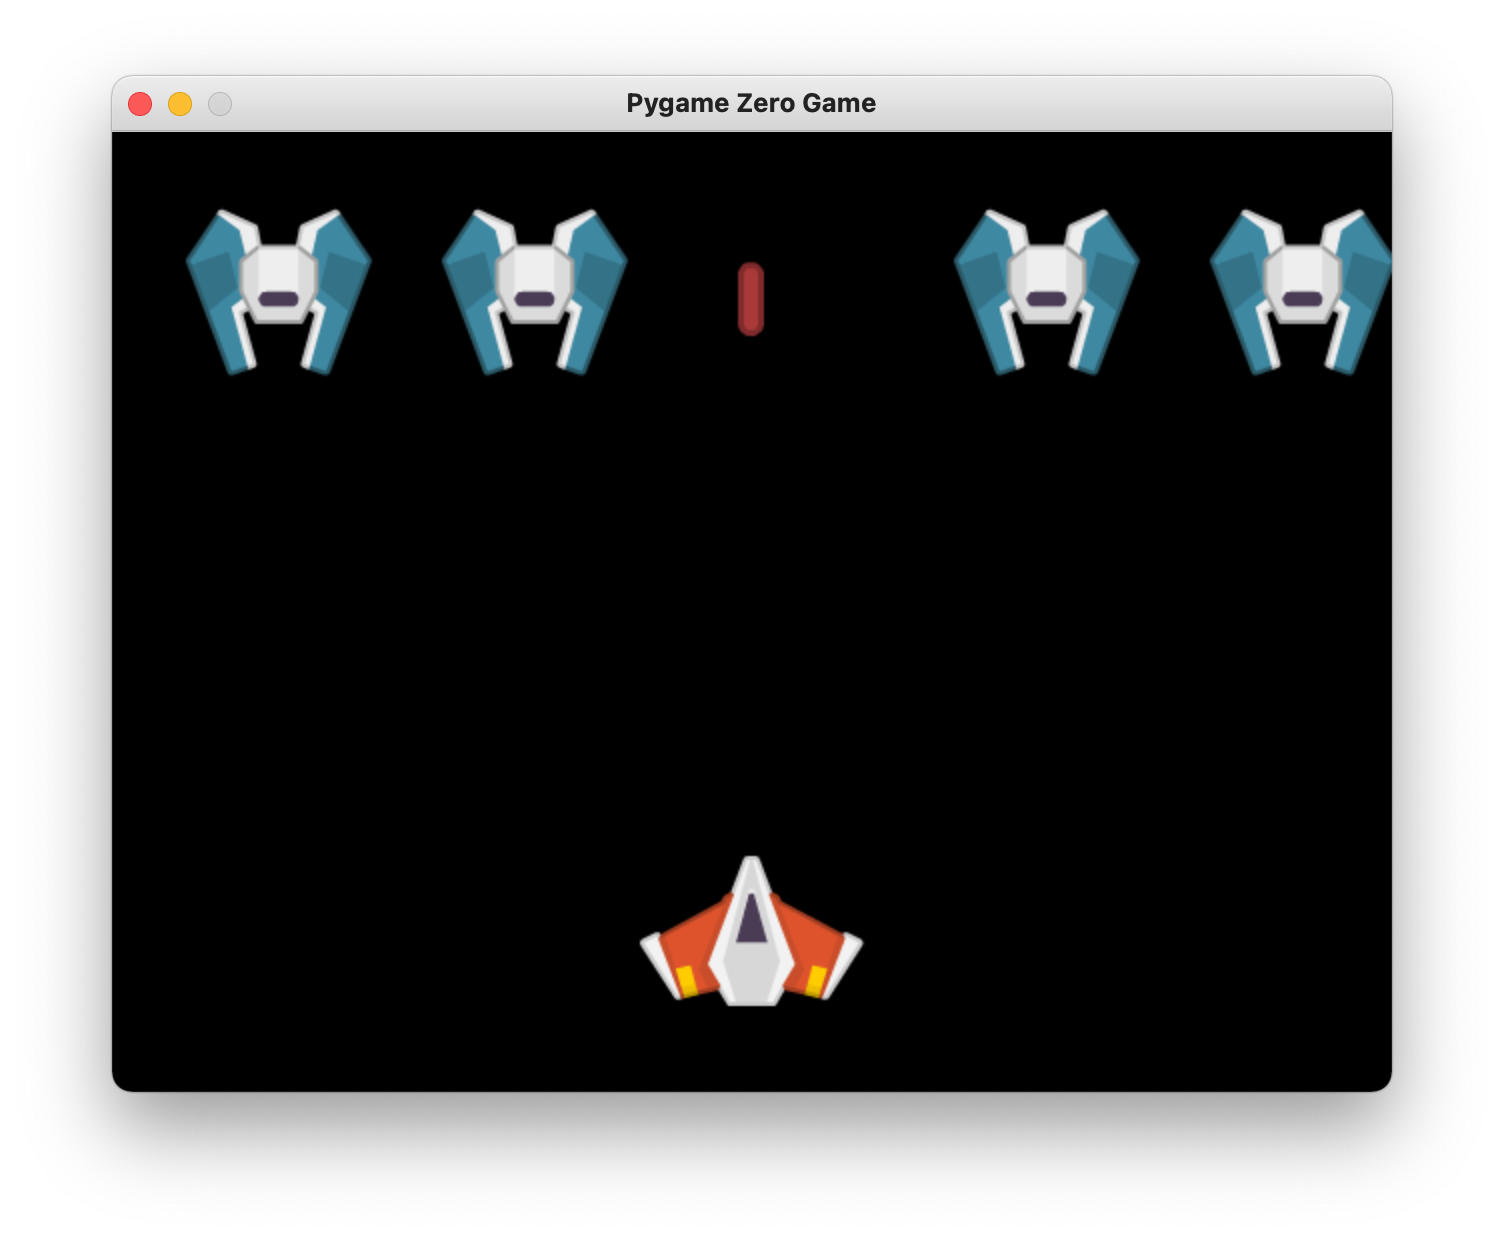
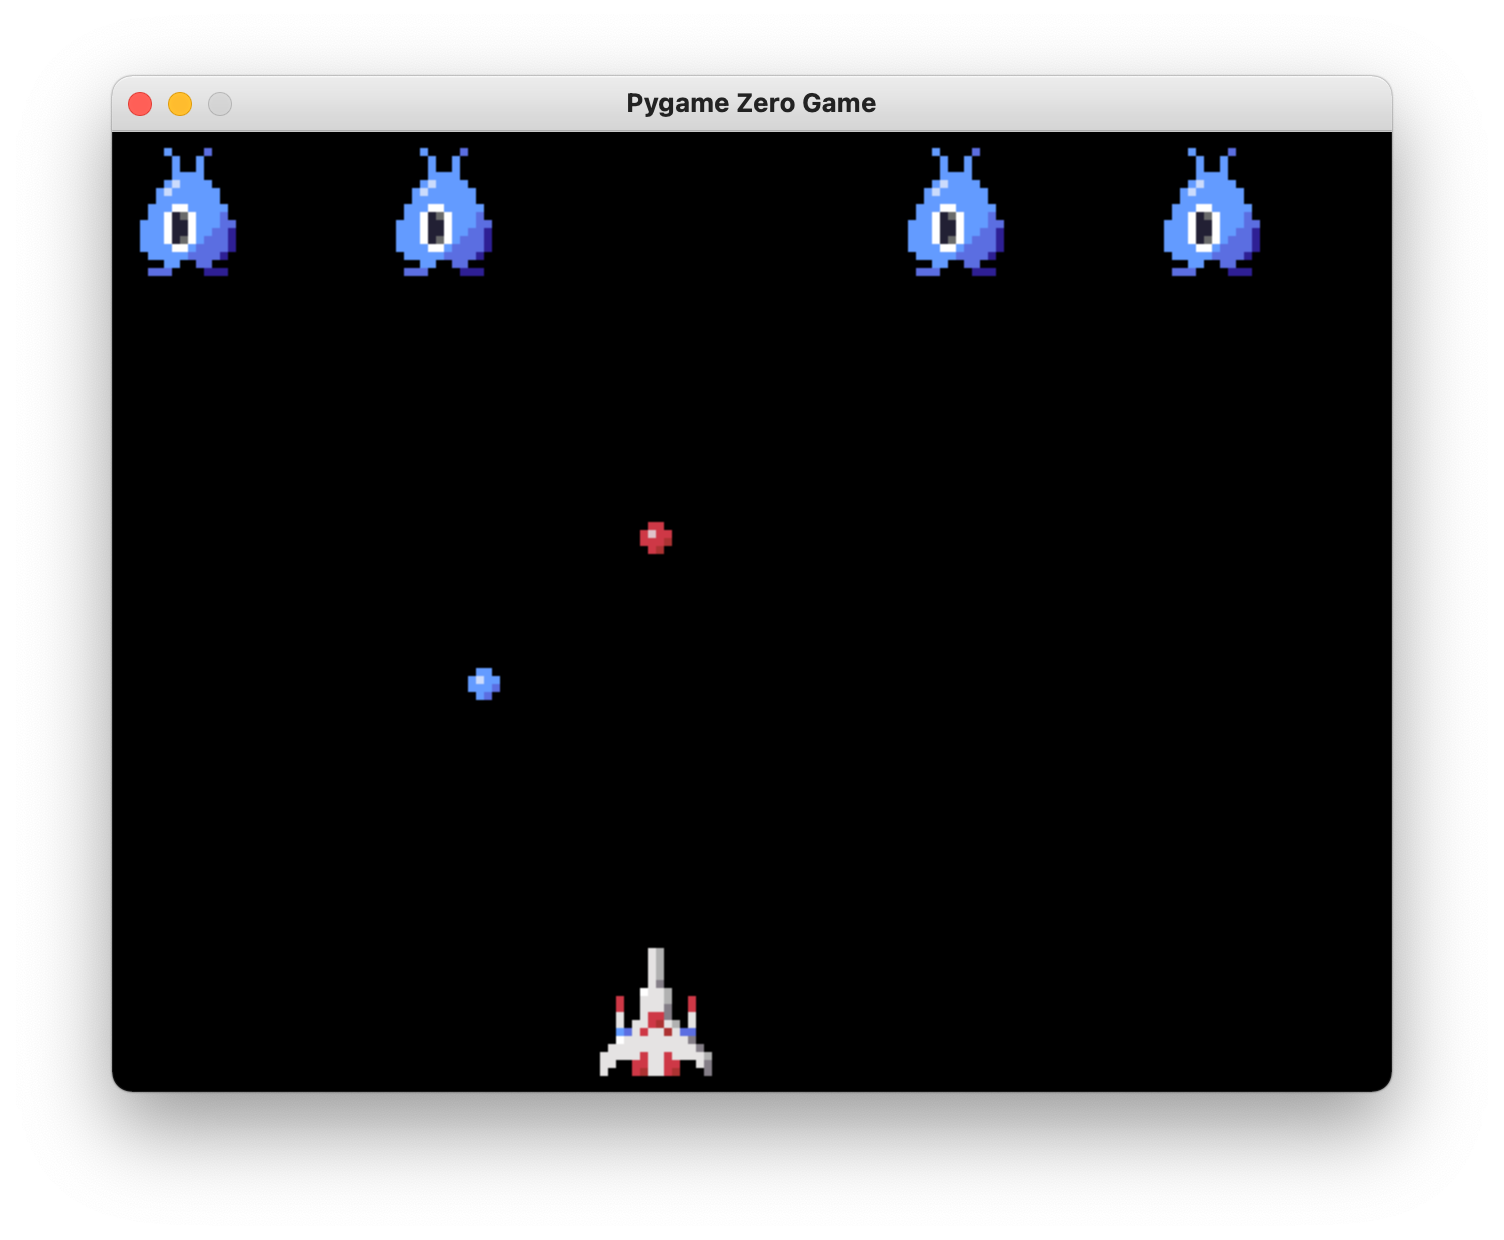
Update alien images

diff --git a/shooting/step09.py b/shooting/step09.py
@@ -3,7 +3,7 @@ import pgzrun
 WIDTH = 640
 HEIGHT = 480
 
-player = Actor('player', pos=(320, 400))
+player = Actor('player', pos=(320, 440))
 missile = Actor('missile', pos=(0, 0))
 aliens = []
 show_missile = False
@@ -88,7 +88,7 @@ def hit(missile, alien):
 
 def init():
     for i in range(5):
-        alien = Actor('alien', pos=(64 + i * 128, 80))
+        alien = Actor('alien1', pos=(32 + i * 128, 40))
         aliens.append(alien)
 
 

diff --git a/shooting/step11.py b/shooting/step11.py
@@ -5,7 +5,7 @@ import pgzrun
 WIDTH = 640
 HEIGHT = 480
 
-player = Actor('player', pos=(320, 400))
+player = Actor('player', pos=(320, 440))
 missile = Actor('missile', pos=(0, 0))
 aliens = []
 show_missile = False
@@ -101,7 +101,7 @@ def move(alien):
 
 def init():
     for i in range(5):
-        alien = Actor('alien', pos=(64 + i * 128, 80))
+        alien = Actor('alien1', pos=(32 + i * 128, 40))
         aliens.append(alien)
 
 

diff --git a/shooting/step12.py b/shooting/step12.py
@@ -5,7 +5,7 @@ import pgzrun
 WIDTH = 640
 HEIGHT = 480
 
-player = Actor('player', pos=(320, 400))
+player = Actor('player', pos=(320, 440))
 missile = Actor('missile', pos=(0, 0))
 aliens = []
 alien_missiles = []
@@ -121,7 +121,7 @@ def move(alien):
 
 def init():
     for i in range(5):
-        alien = Actor('alien', pos=(64 + i * 128, 80))
+        alien = Actor('alien1', pos=(32 + i * 128, 40))
         aliens.append(alien)
 
 

diff --git a/shooting/step10.py b/shooting/step10.py
@@ -5,7 +5,7 @@ import pgzrun
 WIDTH = 640
 HEIGHT = 480
 
-player = Actor('player', pos=(320, 400))
+player = Actor('player', pos=(320, 440))
 missile = Actor('missile', pos=(0, 0))
 aliens = []
 show_missile = False
@@ -99,7 +99,7 @@ def move(alien):
 
 def init():
     for i in range(5):
-        alien = Actor('alien', pos=(64 + i * 128, 80))
+        alien = Actor('alien1', pos=(32 + i * 128, 40))
         aliens.append(alien)
 
 

diff --git a/shooting/README.md b/shooting/README.md
@@ -108,9 +108,12 @@ show_missile = False
 ### Step 09: エイリアン（敵）を配置しよう
 
 * 配列にエイリアンを格納し、表示しよう
-  
+* エイリアンとのバランスを考え、自機のY座標を440にしよう
+
 ```python
 aliens = []
+
+player = Actor('player', pos=(320, 440))
 
 def draw():
 ...
@@ -119,14 +122,14 @@ def draw():
         
 def init():
     for i in range(5):
-        alien = Actor('alien', pos=(64 + i * 128, 80))
+        alien = Actor('alien', pos=(64 + i * 128, 40))
         aliens.append(alien)
 
 ```
 
 * ミサイルが当たったらエイリアンを消去しよう
 * ミサイルにあったかどうかの判定はミサイルとエイリアンのx, y座標の差の絶対値が32以下の場合としよう 
-  * ミサイルとエイリアンの距離`√((x1-x2)^2 + (y1-y2)^2)`で判定する場合は、そのまま計算してもいいですが、`math.dist((x1, y1), (x2, y2))`が便利です
+  * ミサイルとエイリアンの距離`√((x1-x2)^2 + (y1-y2)^2)`で判定する場合は、そのまま計算してもいいですが、`math.dist((x1, y1), (x2, y2))`やpygame zeroの`Actor`のメソッドである`distance_to(target_actor)`が便利です
 * 注意！ 配列の要素の列挙中にその配列から要素を削除してはいけません。ここでは、`aliens[:]`として`aliens`コピーを作成し、コピーアイテムをの列挙中に下の配列`aliens`から要素を削除しています
   
 ```python
@@ -215,8 +218,11 @@ def draw():
         alien_missile.draw()
 ```
 
+### Step 14: エイリアンの種類を増やそう
 
-### Step 13: ゲームクリア/ゲームオーバー
+  * 青いイリアンの下に赤いエイリアンの列、その下に緑のエイリアンの列を作ろう
+
+### Step 15: ゲームクリア/ゲームオーバー
 
   * エイリアンを全て倒したらゲームクリアと表示しよう
   * エイリアンのミサイルに自機が当たったらゲームオーバーと表示しよう
@@ -230,5 +236,3 @@ def draw():
 ### Step X: Xキーでレーザーを発射できるようにしよう
 
 ## Note
-
-* <https://opengameart.org/content/space-shooter-redux>よりロイヤリティフリーのイラストを使用させていただきました
